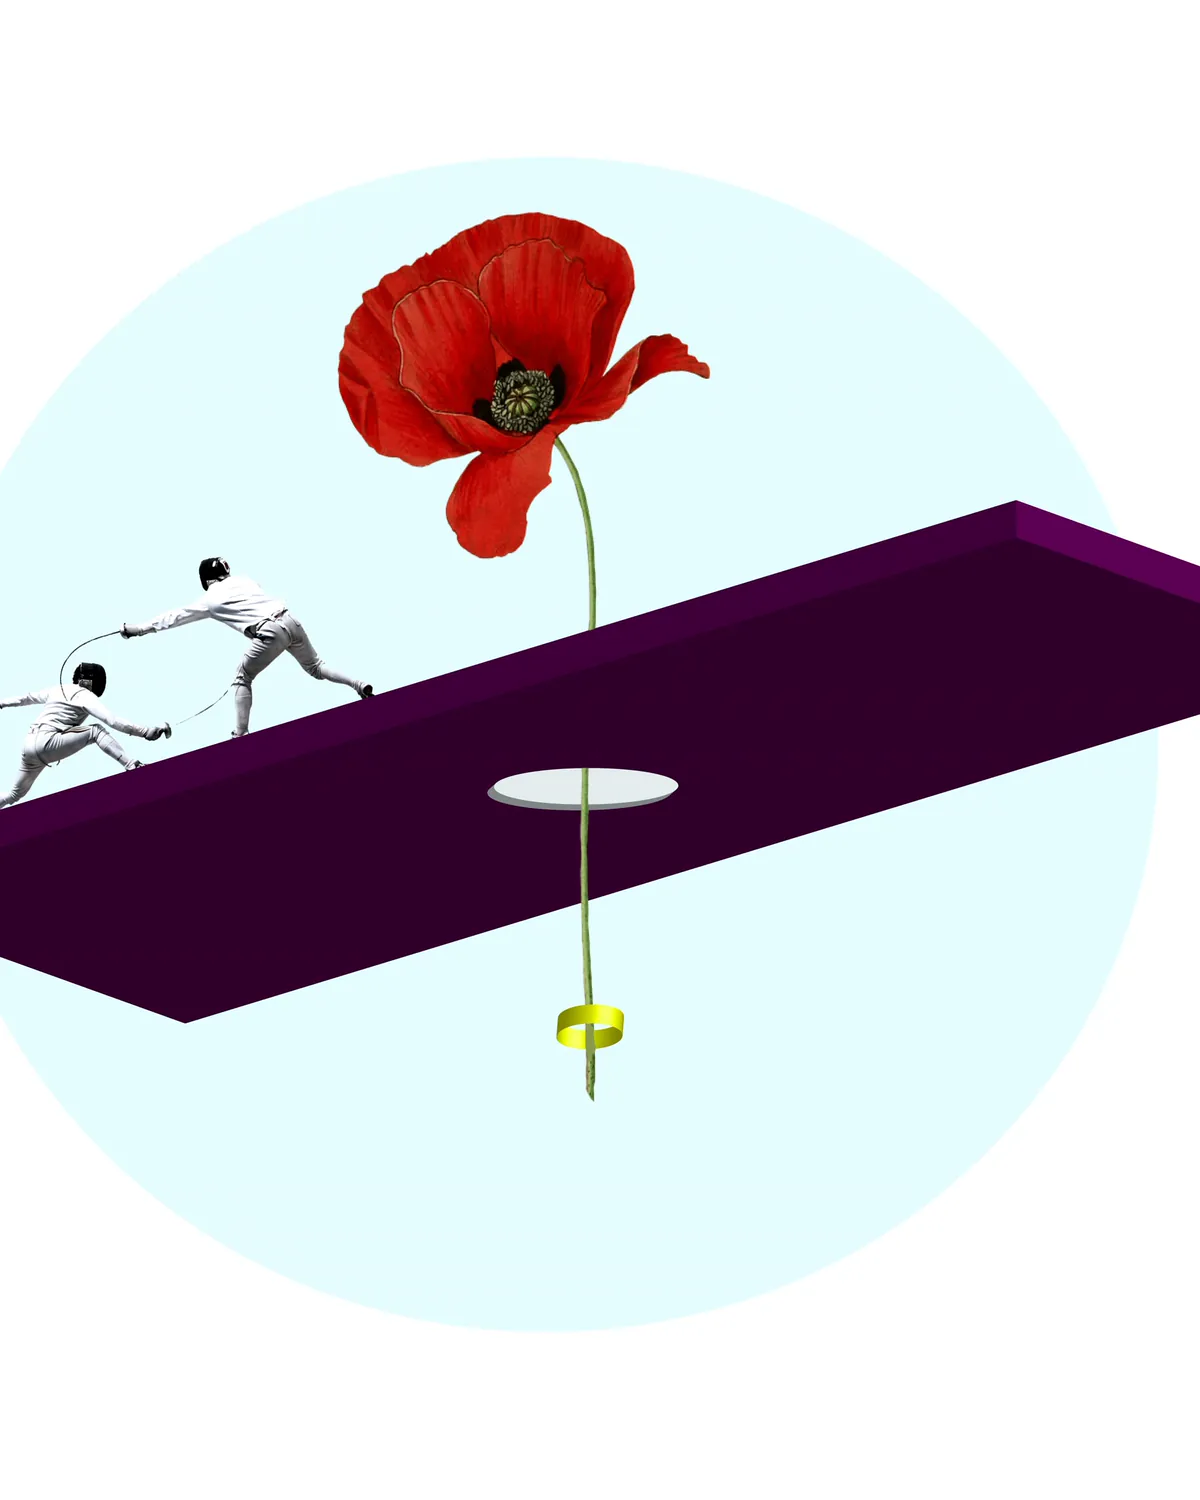
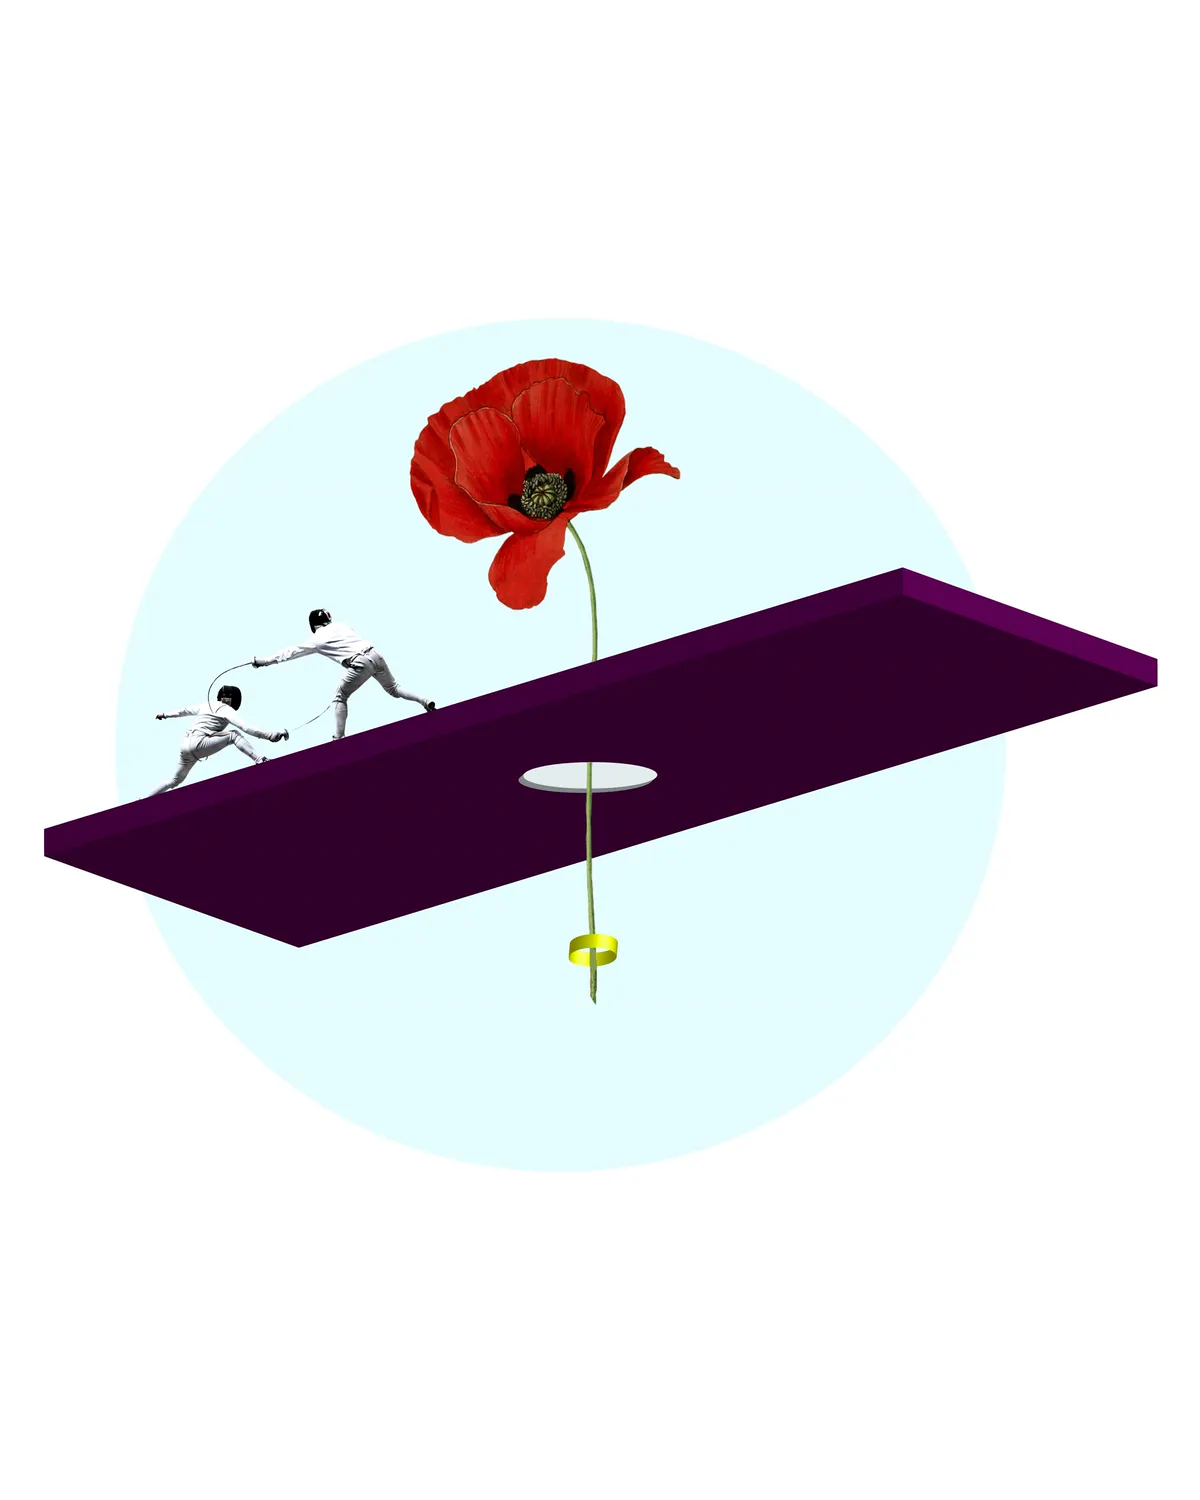
Lab: Lilo whole across its plate, on its own white

diff --git a/src/outils/artwork.ts b/src/outils/artwork.ts
@@ -47,7 +47,7 @@ export const reel: Plate[] = [
   { id: "r11", url: L("acne"), title: "Acne" },
   { id: "r12", url: L("fasemesa"), title: "Fase" },
   { id: "r13", url: L("amorsacro"), title: "Amorsacro", tech: "digital" },
-  { id: "r14", url: L("lilo"), title: "Lilo" },
+  { id: "r14", url: `${L("lilo")}?v=2`, title: "Lilo" },
   { id: "r15", url: L("single"), title: "Single" },
   { id: "r16", url: L("lerele"), title: "Lerele" },
 ];
